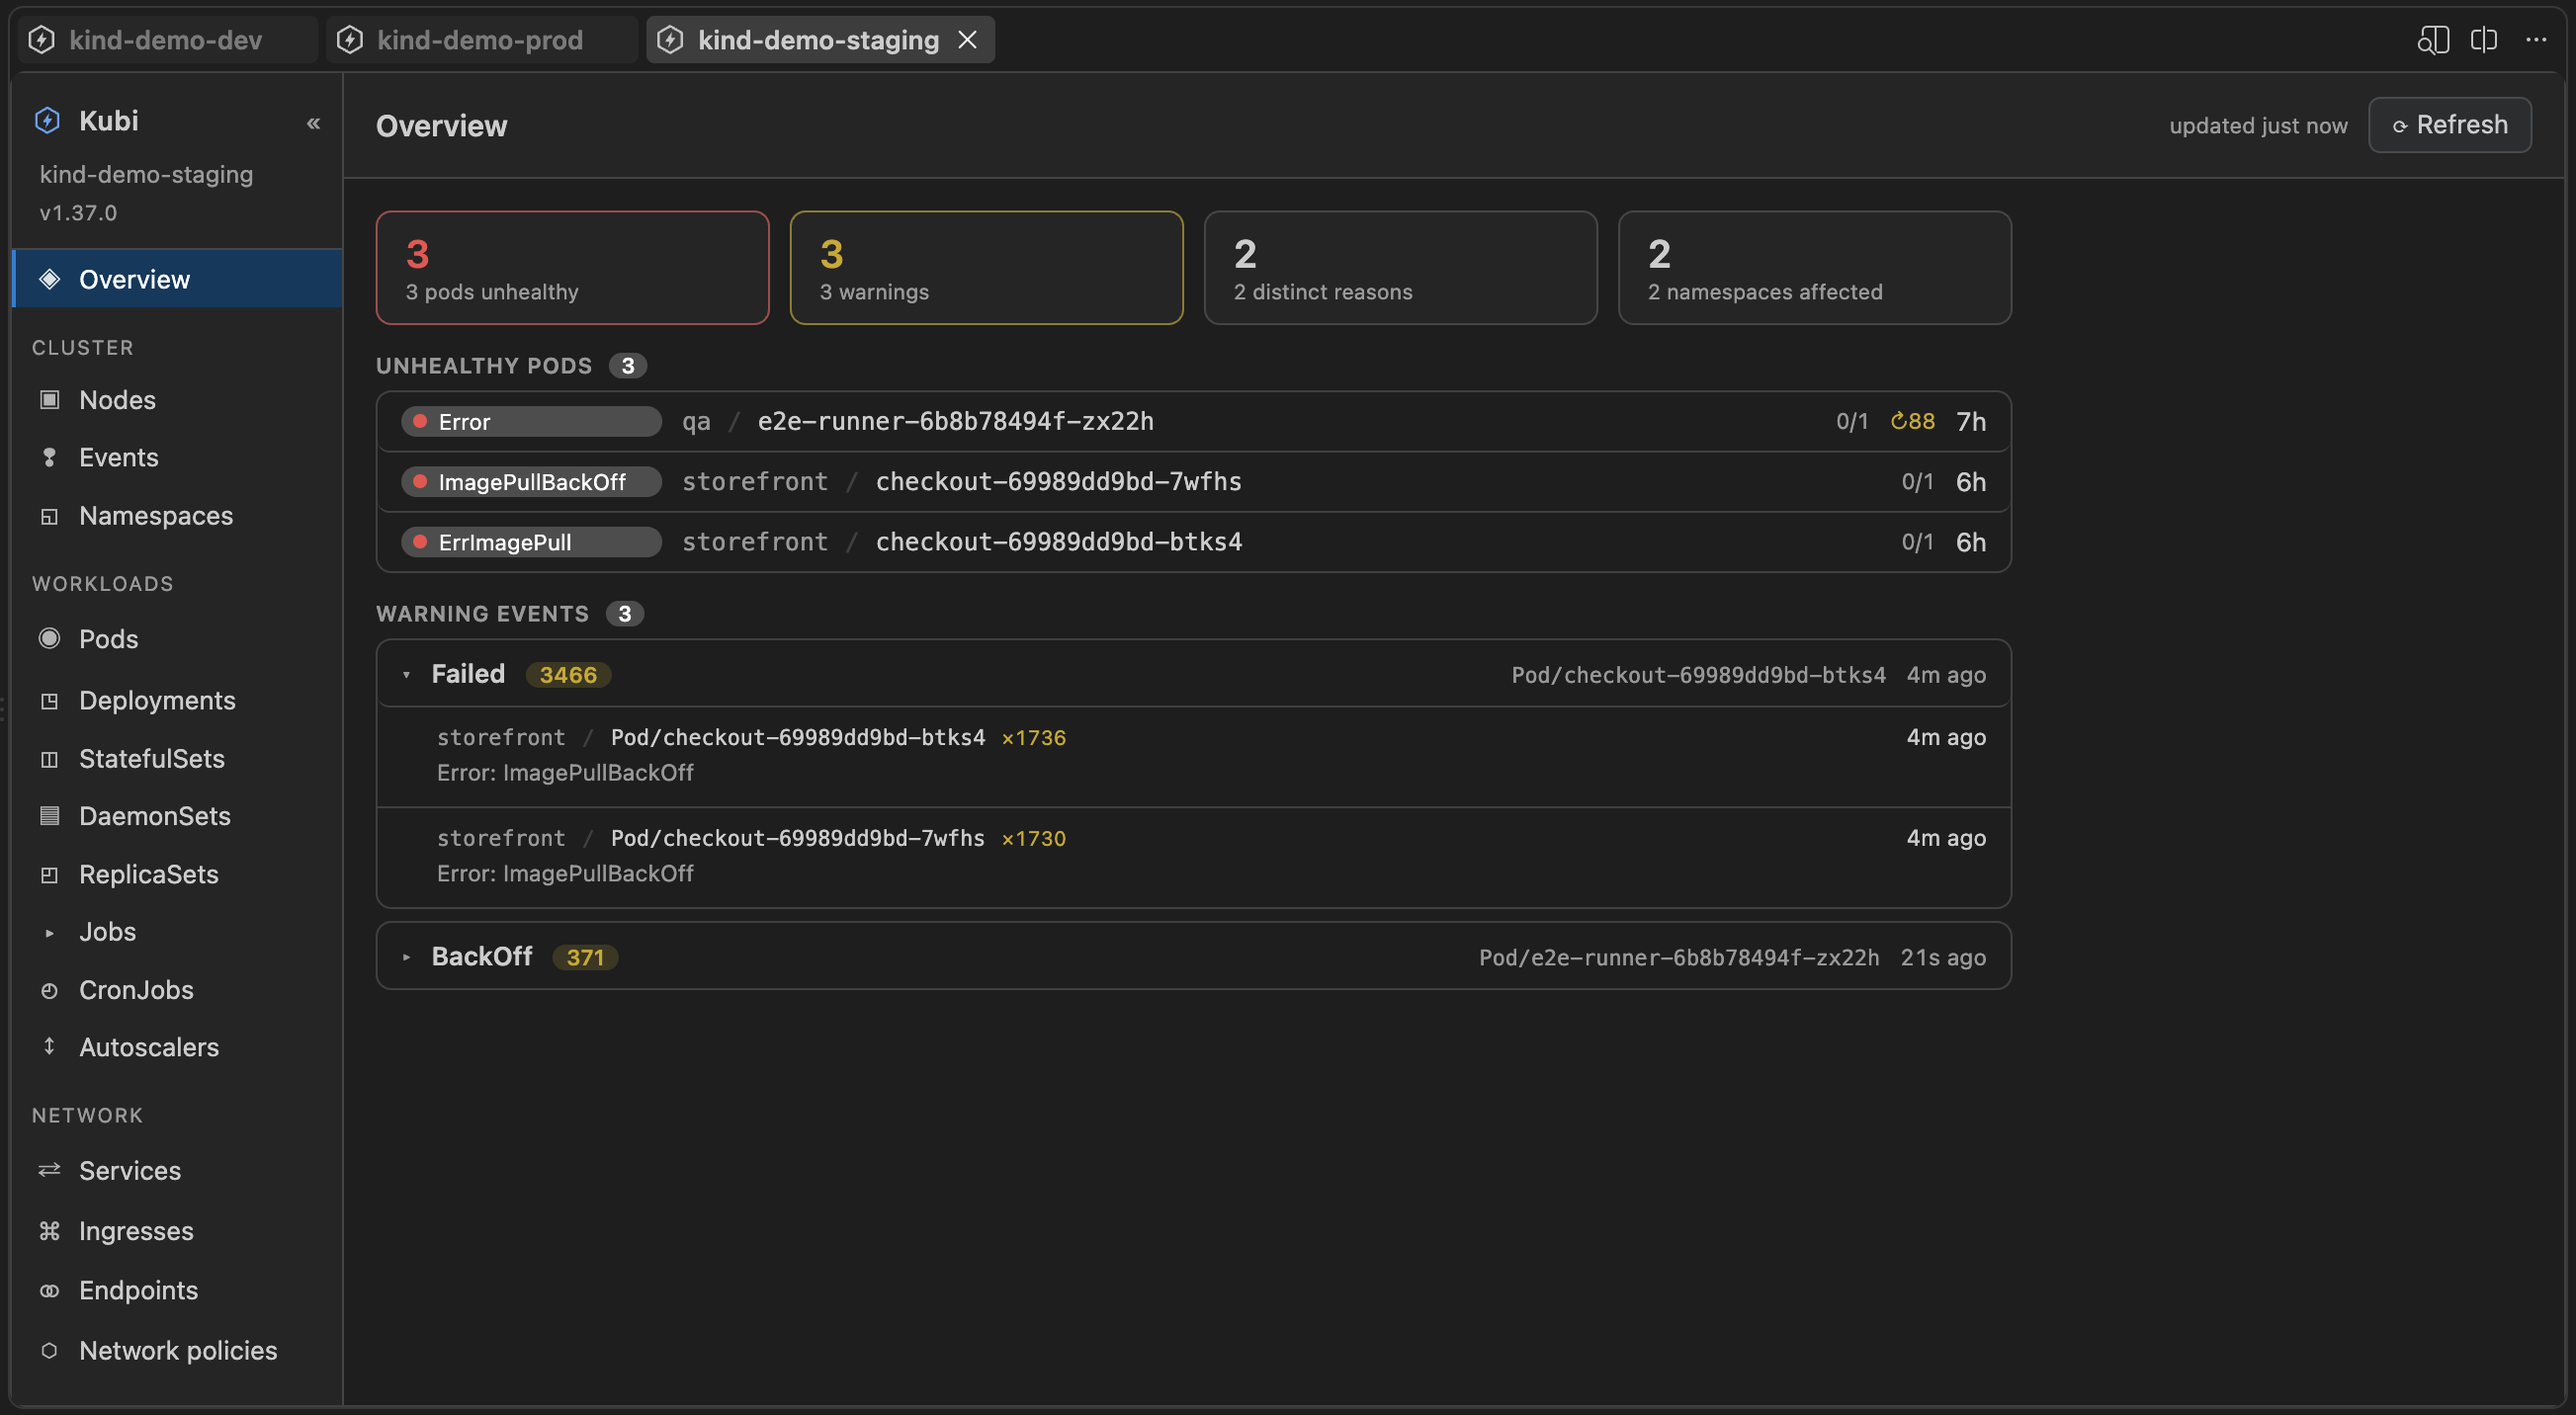
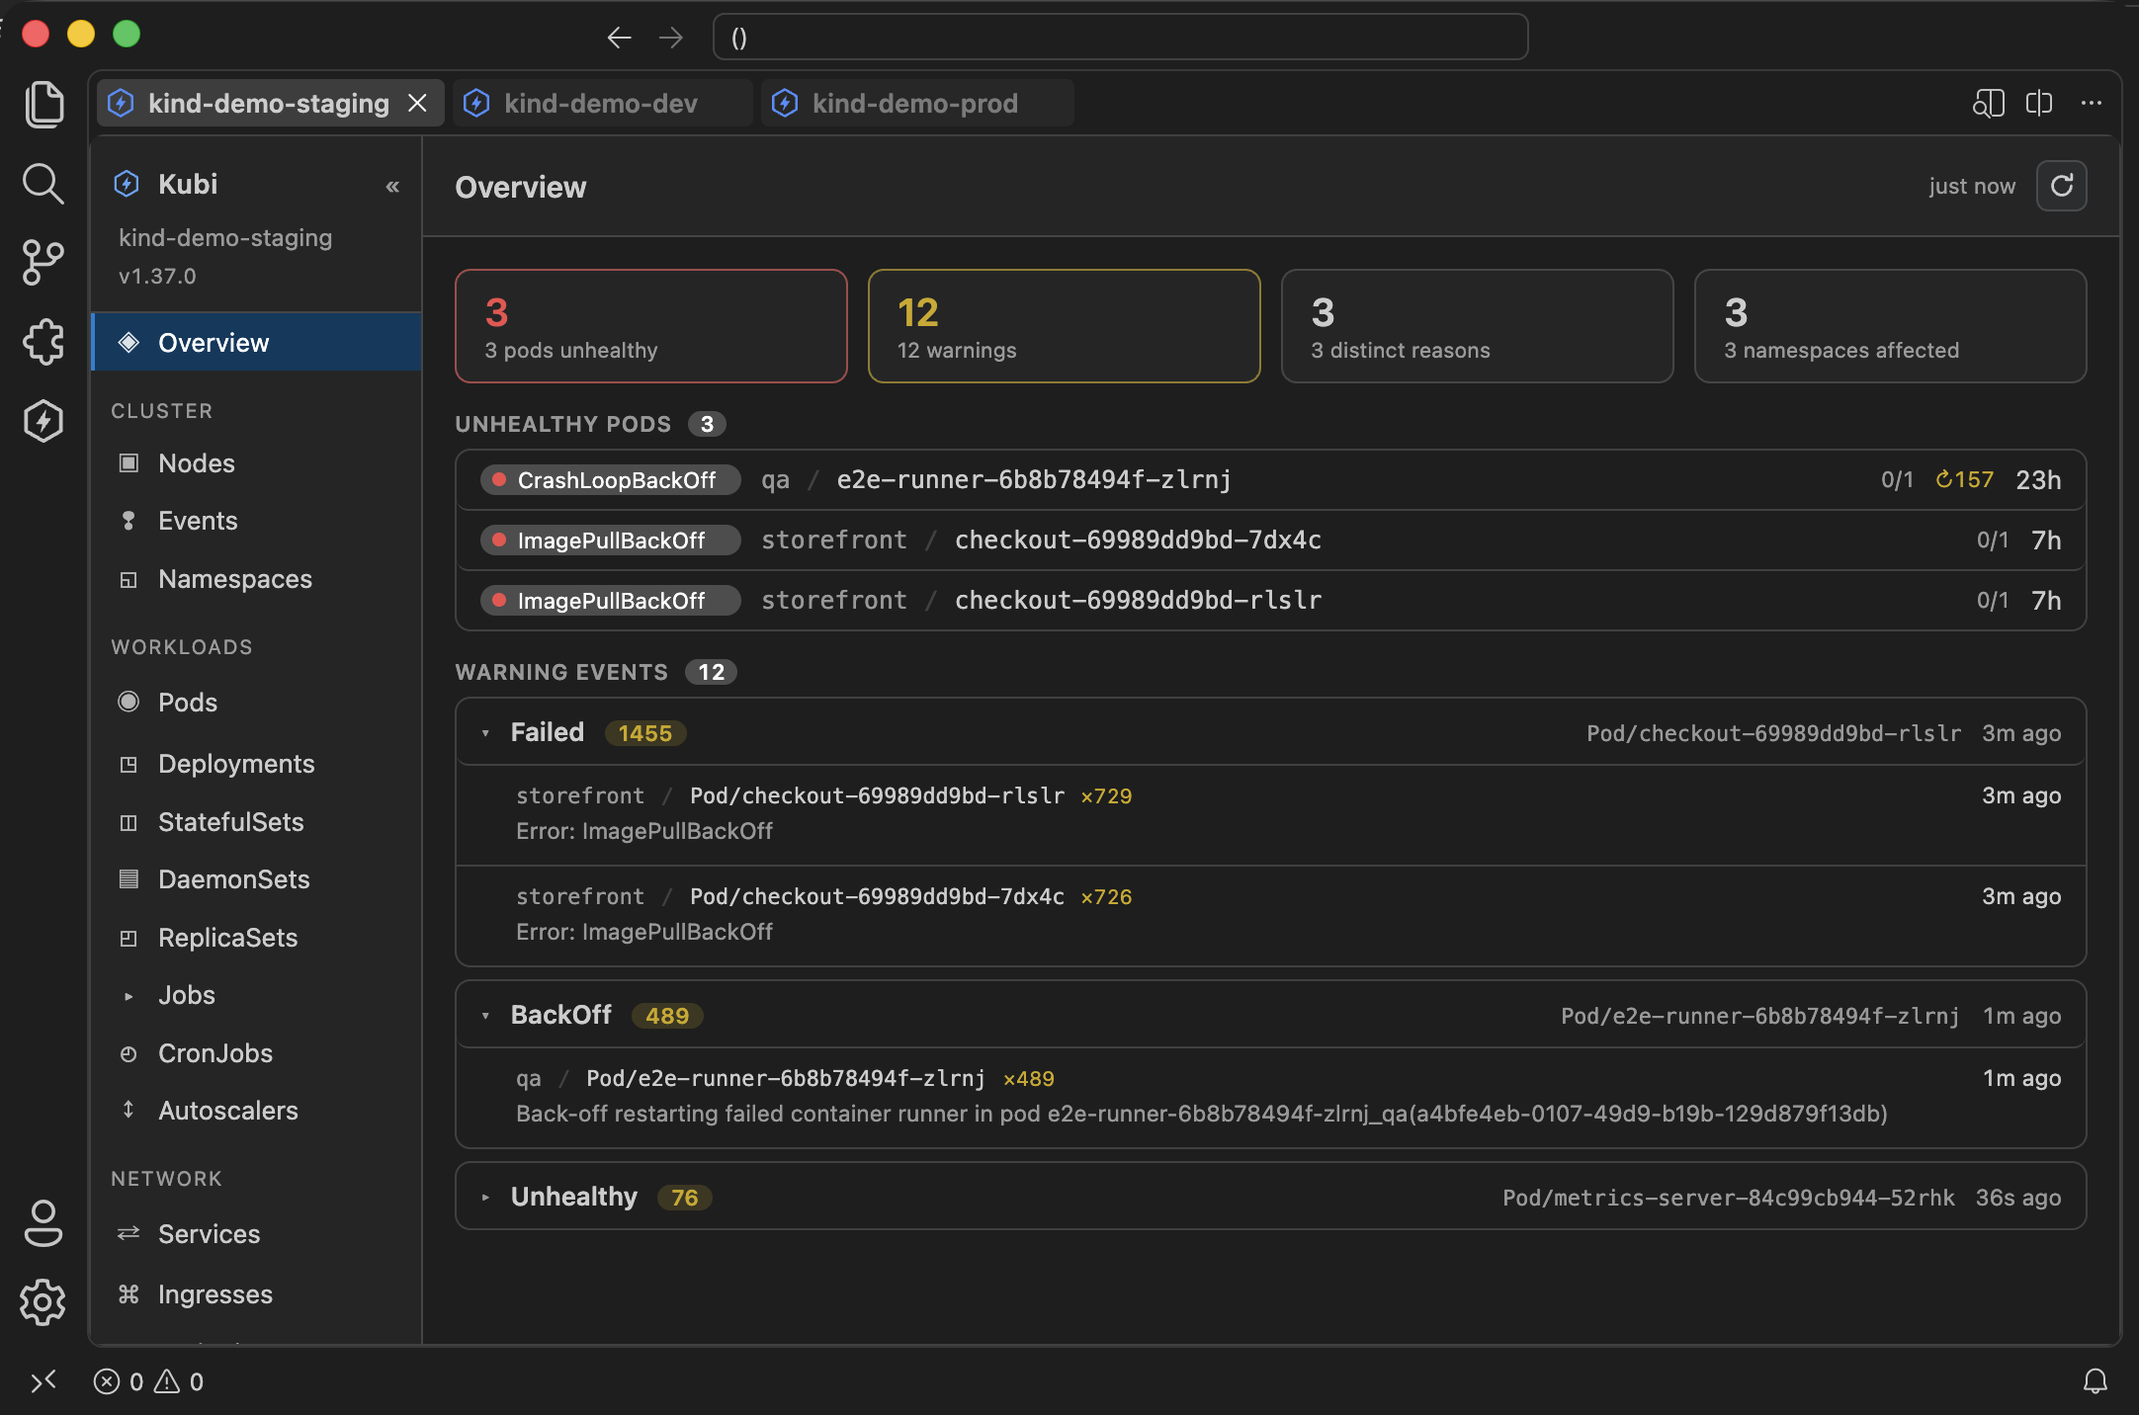
Update readme & screenshots

diff --git a/README.md b/README.md
@@ -7,48 +7,57 @@
 
 **Manage Kubernetes clusters in VS Code at lightning speed.**
 
-To get started just type in your terminal: `code --install-extension guntiss.kubi`
+To get started, run this in your terminal: `code --install-extension guntiss.kubi`
 
 ## A look around
 
 | | |
 | --- | --- |
-| <a href="https://raw.githubusercontent.com/guntiss/kubi/main/docs/demo.gif"><img src="https://raw.githubusercontent.com/guntiss/kubi/main/docs/demo.gif" width="400" alt="Kubi in action: browsing a cluster, filtering resources and opening a pod's detail drawer"></a><br>**Demo** — browsing, filtering and inspecting a cluster. | <a href="https://raw.githubusercontent.com/guntiss/kubi/main/docs/overview.png"><img src="https://raw.githubusercontent.com/guntiss/kubi/main/docs/overview.png" width="400" alt="The Overview, leading with unhealthy pods and warning events"></a><br>**Overview** — unhealthy pods and Warning events at a glance. |
-| <a href="https://raw.githubusercontent.com/guntiss/kubi/main/docs/pods.png"><img src="https://raw.githubusercontent.com/guntiss/kubi/main/docs/pods.png" width="400" alt="The Pods table, with status pills and problem rows highlighted"></a><br>**Resource tables** — status pills, problem rows highlighted. | <a href="https://raw.githubusercontent.com/guntiss/kubi/main/docs/details.png"><img src="https://raw.githubusercontent.com/guntiss/kubi/main/docs/details.png" width="400" alt="The detail drawer for a failing pod, with its container state, the pull error and its events"></a><br>**Detail drawer** — container state, errors and events. |
-| <a href="https://raw.githubusercontent.com/guntiss/kubi/main/docs/filters.png"><img src="https://raw.githubusercontent.com/guntiss/kubi/main/docs/filters.png" width="400" alt="Deployments narrowed to one namespace and the Problems bucket"></a><br>**Filtering** — namespace, status bucket and query, combined. | <a href="https://raw.githubusercontent.com/guntiss/kubi/main/docs/about.png"><img src="https://raw.githubusercontent.com/guntiss/kubi/main/docs/about.png" width="400" alt="The About page: version skew, authenticated identity, connection and plugins"></a><br>**About** — version skew, identity, connection, plugins. |
+| <a href="https://raw.githubusercontent.com/guntiss/kubi/main/docs/overview.png"><img src="https://raw.githubusercontent.com/guntiss/kubi/main/docs/overview.png" width="400" alt="The Overview, leading with unhealthy pods and Warning events grouped by reason"></a><br>**Overview** — unhealthy pods and Warning events at a glance. | <a href="https://raw.githubusercontent.com/guntiss/kubi/main/docs/nodes.png"><img src="https://raw.githubusercontent.com/guntiss/kubi/main/docs/nodes.png" width="400" alt="The Nodes table with CPU and memory sparklines, and a node's right-click menu"></a><br>**Resource tables** — live usage, right-click actions. |
+| <a href="https://raw.githubusercontent.com/guntiss/kubi/main/docs/node-details.png"><img src="https://raw.githubusercontent.com/guntiss/kubi/main/docs/node-details.png" width="400" alt="The detail drawer for a node, with its CPU and memory history and its events"></a><br>**Detail drawer** — usage history, events and actions. | <a href="https://raw.githubusercontent.com/guntiss/kubi/main/docs/describe.png"><img src="https://raw.githubusercontent.com/guntiss/kubi/main/docs/describe.png" width="400" alt="The Describe tab of a deployment's drawer, with kubectl describe output highlighted"></a><br>**Describe** — highlighted `kubectl describe` in the drawer. |
+| <a href="https://raw.githubusercontent.com/guntiss/kubi/main/docs/shell-terminal.png"><img src="https://raw.githubusercontent.com/guntiss/kubi/main/docs/shell-terminal.png" width="400" alt="A pod's logs and a shell open side by side in VS Code's terminal"></a><br>**Logs and shell** — right in VS Code's terminal. | <a href="https://raw.githubusercontent.com/guntiss/kubi/main/docs/delete.png"><img src="https://raw.githubusercontent.com/guntiss/kubi/main/docs/delete.png" width="400" alt="Four selected pods and the confirmation dialog for deleting them"></a><br>**Bulk actions** — select rows, act on them at once. |
 
 ## Why Kubi
 
-**Works out of the box.** All you need is VS Code, `kubectl` with your existing kubeconfig, cloud SSO works out-of-the-box.
+**Works out of the box.** All you need is VS Code and `kubectl` with your
+existing kubeconfig. Cloud SSO works too.
 
-**It feels super fast.** Every view is cache-first, refreshes never clears the screen, steal
-focus or block the UI - continue navigating, filtering while refresh happens in the background.
-Everything is optimized for maximum speed and performance, filtering happens client side so it's always instant.
+**Shallow learning curve.** The friendly UI makes Kubi quick to learn and
+master. Right-click context menus let you navigate quickly without memorizing
+keyboard shortcuts.
 
-**Notice issues faster** Human friendly overview page allows seeing cluster issues at a glance, without the need to dig through each page.
+**It feels super fast.** Every view is cache-first, and refreshes never clear
+the screen, steal focus or block the UI — keep navigating and filtering while
+the refresh happens in the background. Everything is optimized for speed, and
+filtering happens client-side, so it is always instant.
 
-**Work with many clusters simultaneously.** Each context opens in its own editor tab,
-switch at any time. Every call passes `--context` explicitly and your kubeconfig
-is never modified. You can even set custom kubeconfig path for each workspace.
-Each window remembers it's state even after window reload - continue where you left off.
+**Notice issues faster.** A human-friendly overview page shows cluster issues at
+a glance, without the need to dig through each page.
 
-**Utilize native VS Code terminal and file editing capabilities.** Quickly check logs
-for current or terminated container; open shell for command execution — native VS Code
-terminal allows to quickly edit command, add a `grep`, or even pipe output file on the fly.
-Also editing Kubenretes resources is a breeze since it happens right in the IDE - syntax highlighting, formatting, etc.
+**Work with many clusters simultaneously.** Each context opens in its own editor
+tab, and you can switch between them at any time. Every call passes `--context`
+explicitly, and your kubeconfig is never modified. You can even set a custom
+kubeconfig path for each workspace. Each window remembers its state even after
+a reload, so you can continue where you left off.
 
-**The codebase is small and lightweight.** Around 4,000 lines of TypeScript across six files,
-with no runtime dependencies and no build step beyond `tsc`.  It is easy to read
-end to end, easy to submit a change to, and small enough to hand to a coding
-agent with the whole thing in view.
+**Use VS Code's native terminal and editor.** Quickly check logs for the current
+or a terminated container, or open a shell to run commands. The native VS Code
+terminal lets you quickly edit a command, add a `grep`, or even pipe the output
+to a file on the fly. Editing Kubernetes resources is a breeze too, since it
+happens right in the IDE, with syntax highlighting, formatting and the rest.
+
+**The codebase is small and lightweight.** Around 5,000 lines of TypeScript
+across seven files, with no runtime dependencies and no build step beyond `tsc`.
+It is easy to read end to end, easy to submit a change to, and small enough to
+hand to a coding agent with the whole thing in view.
 
 ## Main features
 
 **Dashboard — one editor tab per context.** Inside a dashboard:
 
 - **Overview** — unhealthy pods and every Warning event the cluster is holding,
-  grouped by reason. A cluster whose event TTL has expired everything says so
-  rather than claiming all is well.
+  grouped by reason. A cluster whose events have all expired past their TTL says
+  so rather than claiming all is well.
 
 - **Resource tables** — sortable, filterable tables with columns matched to each
   kind, and status pills colored by health. The rail groups them:
@@ -74,9 +83,9 @@ agent with the whole thing in view.
   reads the log of the instance that died — the one that explains the restart.
 
 - **CPU and memory** — Nodes and Pods show live usage with a sparkline of the
-  last ten minutes, once a full ten minutes has been recorded. Beside each, **CPU %** and **MEM %** give the usage as a
-  share of the pod's limits or the node's allocatable; they turn yellow at 75%
-  and red at 90%. The drawer draws
+  last ten minutes, once a full ten minutes has been recorded. Beside each,
+  **CPU %** and **MEM %** give the usage as a share of the pod's limits or the
+  node's allocatable; they turn yellow at 75% and red at 90%. The drawer draws
   the same history larger, and breaks pod usage down per container. Needs
   [metrics-server](https://github.com/kubernetes-sigs/metrics-server) in the
   cluster; without it the columns simply do not appear. The history is what
@@ -138,7 +147,7 @@ more than that:
 | `ns:prod restarts:>0` | terms combine with AND |
 
 Field names are the kind's own column keys, plus `name`, `namespace` and
-`status` on every kind. An unrecognised field is treated as plain text, so a name
+`status` on every kind. An unrecognized field is treated as plain text, so a name
 containing a colon still finds itself. Press `/` or `Ctrl`/`Cmd`+`F` to jump to
 the box.
 
@@ -187,12 +196,14 @@ and `npm run package` then fails.
 | `kubi.preserveCacheAfterUpdates` | `true` | Keep cached dashboard data when the extension updates, so the first dashboard opened after an update paints immediately. Turn it off if you would rather each update start empty: a view cached by an older build can paint blank cells until its first refresh replaces it. Also on the About page. |
 
 ## Roadmap
-- **Support for all standard kubernetes resources** - some are still missing
+
+- **All standard Kubernetes resources** — some are still missing.
 - **More keyboard shortcuts** — reach the common actions from the row you are
   already on, without the drawer or the mouse.
 - **Custom resources** — opt in to the CRDs your cluster defines and get them
   in the rail beside the built-in kinds.
 - **More settings** — more of the defaults above made yours, per workspace.
+- **Refactor filtering** - UI improvements
 
 ## Status
 
